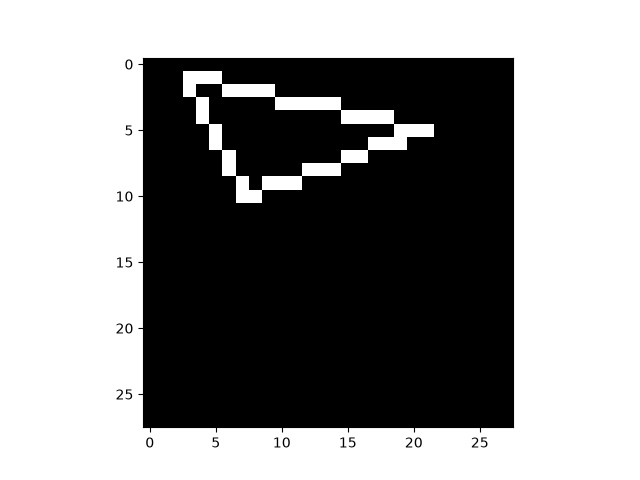
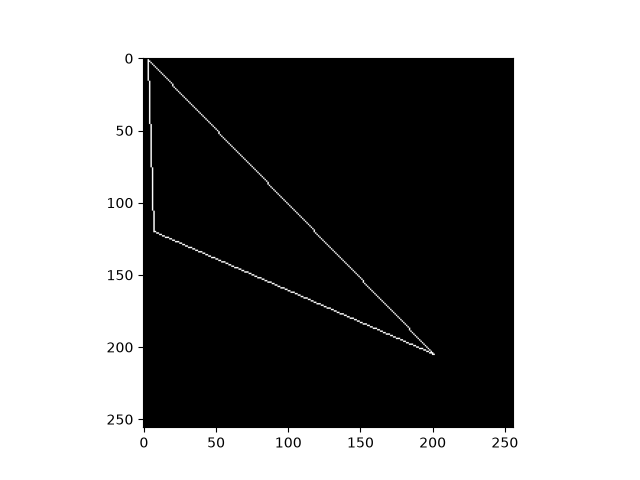
Red de triangulos Linear-ReLU

diff --git a/practicas_python/practica_25_identidad_referencias.py b/practicas_python/practica_25_identidad_referencias.py
@@ -1,0 +1,82 @@
+'''
+Práctica 25 — Identidad de objetos, referencias y funciones
+Una herramienta nueva: is frente a ==
+Hasta ahora venimos razonando sobre qué variables comparten objetos. 
+Python tiene dos operadores para comprobar dos cosas distintas.
+- == pregunta si dos objetos tienen el mismo contenido o valor.
+- is pregunta si son exactamente el mismo objeto.
+Por ejemplo:
+A = [5, 10, 15]
+B = A.copy()
+C = A
+print(A == B)  # True
+print(A is B)  # False
+print(A is C)  # True
+
+Aunque A y B tienen los mismos valores, son listas diferentes. 
+En cambio, C es otra referencia al mismo objeto que A.
+
+Ahora observá un caso más interesante:
+A = [[2, 4], [6, 8]]
+B = A.copy()
+print(A is B) # False
+print(A[0] is B[0])  # True
+
+¿Por qué? Porque copiamos el contenedor externo, pero no sus listas internas.
+
+Un contraejemplo importante: dos números pueden ser iguales sin que debamos asumir que son el mismo objeto. 
+Para comparar valores numéricos utilizamos ==, no is.
+
+Esta distinción se aplica a objetos de Python en general. 
+En arrays NumPy, == tiene un comportamiento especial: compara elementos individualmente, 
+no devuelve necesariamente un único booleano.
+Tu objetivo de código
+Tenemos un registro de dos equipos:
+registros = [["equipo_A", 10],["equipo_B", 20]]
+
+Quiero que escribas una función llamada crear_revision que reciba esa lista anidada y realice estas operaciones, en este orden:
+1. Agregue el texto "revisado" a la primera lista interna del argumento recibido.
+2. Cree una copia superficial de la lista externa y haga que la variable local utilizada para trabajar con los registros apunte a esa copia.
+3. Agregue a esa nueva lista externa un tercer registro: ["equipo_C", 30].
+4. Devuelva esa nueva lista externa.
+Esta práctica simula deliberadamente una modificación compartida y una reasignación para estudiar sus efectos. 
+No significa que debamos programar siempre así.
+Restricciones y comprobaciones
+- No utilizar NumPy ni bibliotecas de copia profunda.
+- No modificar directamente registros desde fuera de la función.
+- Utilizar una función y main().
+- Guardar el resultado de la función en una variable distinta de registros.
+- Imprimir ambas listas después de llamar a la función.
+- Comprobar con is si ambas listas externas son el mismo objeto y si comparten su primera lista interna.
+Antes de ejecutar, escribí como comentarios qué contenido esperás que tengan registros y el resultado devuelto, 
+y qué booleanos esperás obtener con las dos comparaciones de identidad.
+
+No te doy el código de resolución: quiero observar cómo combinás lo que ya sabés sobre funciones, listas anidadas, 
+copias superficiales y referencias con el operador nuevo is.
+'''
+
+def crear_revision(lista_anidada):
+    '''
+    1. Agregue el texto "revisado" a la primera lista interna del argumento recibido.
+    2. Cree una copia superficial de la lista externa y haga que la variable local utilizada para trabajar con los registros apunte a esa copia.
+    3. Agregue a esa nueva lista externa un tercer registro: ["equipo_C", 30].
+    4. Devuelva esa nueva lista externa.
+    '''
+    lista_anidada[0].append("revisado")
+    copia_superficial = lista_anidada.copy()
+    lista_anidada = copia_superficial
+    lista_anidada.append(["equipo_C", 30])
+    return lista_anidada
+
+def main():
+    registros = [["equipo_A", 10],["equipo_B", 20]]
+    lista = crear_revision(registros)
+    print(registros)
+    print(lista)
+    #Comprobar con is si ambas listas externas son el mismo objeto y si comparten su primera lista interna.
+    print(registros is lista)
+    print(registros[0] is lista[0])
+
+if __name__ == "__main__":
+    main()
+

diff --git a/lab/red_triangulos/dataset.py b/lab/red_triangulos/dataset.py
@@ -53,16 +53,32 @@ def crear_triangulo(matriz: np.array, v1, v2, v3):
     #v1-v3
     crear_lado(matriz,v1,v3)
 
+def crear_triangulos(cant_triangulos, x, y) -> np.ndarray:
+    np.random.seed(42)
+    triangulos = np.zeros((cant_triangulos,x,y))
+    for i in range(cant_triangulos):
+        v1 = (np.random.randint(0,x), np.random.randint(0,y))
+        v2 = (np.random.randint(0,x), np.random.randint(0,y))
+        v3 = (np.random.randint(0,x), np.random.randint(0,y))
+        crear_triangulo(triangulos[i], v1,v2,v3)
+        
+    return triangulos
+
 def main():
     #triangulo = crear_matriz(28,28,1,14,10,7,10,21) 
-    triangulo = crear_matriz(28,28) 
-    v1 = (1,3)
-    v2 = (10,7)
-    v3 = (5,21)
-    crear_triangulo(triangulo, v1,v2,v3)
-    
-    plt.imshow(triangulo,cmap='gray', vmin=0, vmax=255)
-    plt.savefig("triangulo2.png")
+    #triangulo = crear_matriz(256,256) 
+    #v1 = (1,3)
+    #v2 = (120,7)
+    #v3 = (205,201)
+    #crear_triangulo(triangulo, v1,v2,v3)
+    #plt.imshow(triangulo,cmap='gray', vmin=0, vmax=255)
+    #plt.savefig("triangulo2.png")
+
+    data_set = crear_triangulos(5,28,28)
+    #for i in (range(data_set.shape[0])):
+    #    plt.imshow(data_set[i],cmap='gray', vmin=0, vmax=255)
+    #    plt.savefig(f"triangulo_{i}.png")
+
 
 if __name__ == "__main__":
     main()

diff --git a/lab/red_triangulos/autoencoder/autoencoder.py b/lab/red_triangulos/autoencoder/autoencoder.py
@@ -1,0 +1,25 @@
+import numpy as np
+import torch
+
+def aplanar_triangulos(matriz_triangulo) -> np.ndarray:
+    #triangulo_aplanado = matriz_triangulo.reshape(matriz_triangulo.shape[0] * matriz_triangulo.shape[1])
+    triangulo_aplanado = matriz_triangulo.reshape(-1)
+    print(np.shares_memory(matriz_triangulo, triangulo_aplanado))
+    return triangulo_aplanado
+
+def normalizar(triangulo_aplanado) -> np.ndarray:
+    return triangulo_aplanado/255
+
+
+def main():
+    matriz = np.array([[1,2],[3,4],[5,6]])
+    matriz_aplanada = aplanar_triangulos(matriz)
+    triangulo_aplanado_norm = normalizar(matriz_aplanada)
+    print(matriz_aplanada)
+    print(triangulo_aplanado_norm)
+    triangulo_tensor = torch.tensor(triangulo_aplanado_norm, dtype = torch.float32)
+    print(triangulo_tensor)
+    print(triangulo_tensor.dtype)
+
+if __name__ == "__main__":
+    main()  

diff --git a/lab/red_triangulos/test.py b/lab/red_triangulos/test.py
@@ -1,0 +1,26 @@
+from autoencoder.modelo import Autoencoder
+import torch
+import numpy as np
+import dataset as ds
+from autoencoder.autoencoder import aplanar_triangulos, normalizar
+
+def main():
+    mi_primer_red = Autoencoder()
+    #print("Hello nn =)")
+    #tensor = torch.zeros([784])
+    #print(tensor.shape)
+    #out = mi_primer_red.forward(tensor)
+    
+    print(mi_primer_red)
+   
+    matriz = np.zeros((28,28))
+    ds.crear_triangulo(matriz, (1,14),(20,5),(20,20))
+    tensor_aplanado = aplanar_triangulos(matriz)
+    tensor_aplanado = normalizar(tensor_aplanado)
+    tensor = torch.tensor(tensor_aplanado, dtype = torch.float32)
+    out = mi_primer_red(tensor)
+    print(out)
+
+if __name__ == "__main__":
+    main()
+    

diff --git a/lab/red_triangulos/autoencoder/modelo.py b/lab/red_triangulos/autoencoder/modelo.py
@@ -1,0 +1,18 @@
+import torch
+from torch import nn
+
+class Autoencoder(nn.Module):
+    def __init__(self):
+        super().__init__()
+        self.capa1 = nn.Linear(28*28, 64)
+        self.capa2 = nn.ReLU()
+        self.capa3 = nn.Linear(64,2)
+        self.linear_relu_stack = nn.Sequential(
+            self.capa1,
+            self.capa2,
+            self.capa3,
+        )
+
+    def forward(self, x):
+        x_latente = self.linear_relu_stack(x)
+        return x_latente
